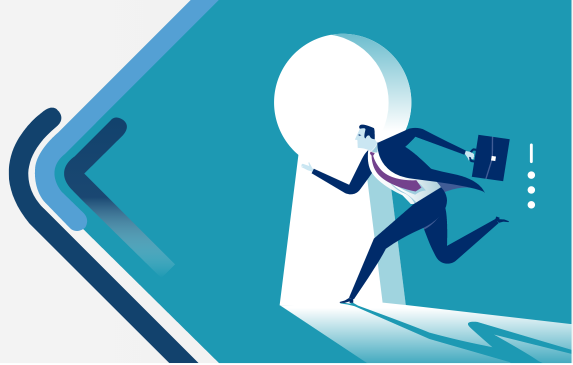
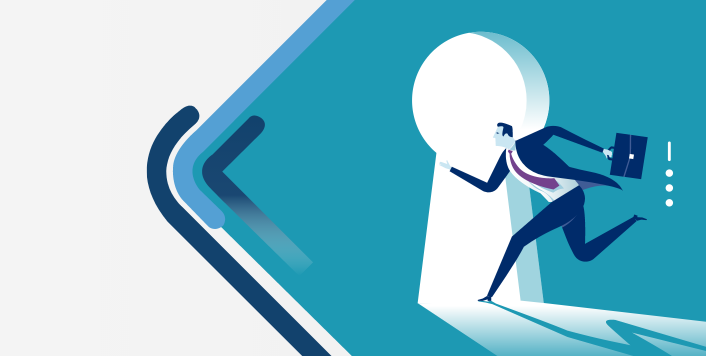
update

diff --git a/src/components/Home.jsx b/src/components/Home.jsx
@@ -5,18 +5,22 @@ import HomeImage from '../assets/images/homeimage.png';
 const Home = () => {
   return (
     <section className="home-section">
-      <div className="home-left">
-        <h1>Lorem ipsum</h1>
-        <p>
-         Lorem ipsum dolor sit amet consectetur, adipisicing elit. Odio voluptas quo quia impedit sequi, ea perferendis repellendus non maiores maxime. Facere fugit nesciunt dicta sapiente excepturi animi ipsa expedita esse illo tempora? Mollitia, earum dolore hic quaerat incidunt error aut saepe enim tempora ad optio iste libero. Laudantium, doloremque quia? Exercitationem, minima. At delectus quod nisi sit tempore ipsum temporibus dolore ut vero optio, porro excepturi doloremque nemo natus. Ad corrupti voluptatum assumenda inventore. Laborum dolore consectetur adipisci labore id voluptatum dolor nesciunt reiciendis neque architecto molestiae, cum quisquam consequuntur cumque facilis? Rerum similique nulla voluptatum eligendi, beatae reiciendis! Adipisci?
-        </p>
-        <button className="know-more-btn">Know More</button>
-      </div>
-
-      <div className="home-right">
-        <img src={HomeImage} alt="Illustration" />
-      </div>
-    </section>
+    <div className="home-left">
+      <h1>Lorem ipsum</h1>
+      <p>
+        Lorem ipsum dolor sit amet, consetetur sadipscing elitr, sed diam
+        nonumy eirmod tempor invidunt ut labore et dolore magna aliquyam erat,
+        sed diam voluptua. At vero eos et accusam et justo duo dolores et ea
+        rebum. Stet clita kasd.
+      </p>
+      <button className="know-more-btn">Know More ►</button>
+    </div>
+  
+    <div className="home-right">
+      <img src={HomeImage} alt="Illustration" />
+    </div>
+  </section>
+  
   );
 };
 

diff --git a/src/assets/css/Home.css b/src/assets/css/Home.css
@@ -1,50 +1,54 @@
 .home-section {
-    display: flex;
-    flex-wrap: wrap;
-    padding: 60px 0;
-    background-color: #f9f9f9;
-  }
-  
-  .home-left, .home-right {
-    flex: 1;
-    min-width: 300px;
-    padding: 20px 5%;
-  }
-  
-  /* Left side content */
-  .home-left {
-    display: flex;
-    flex-direction: column;
-    justify-content: center;
-  }
-  
-  .home-left h1 {
-    font-size: 2.5rem;
-    margin-bottom: 20px;
-    color: #003366;
-  }
-  
-  .home-left p {
-    font-size: 1rem;
-    line-height: 1.6;
-    margin-bottom: 20px;
-    color: #444;
-  }
-  
-  .know-more-btn {
-    padding: 10px 20px;
-    background-color: #003366;
-    color: white;
-    border: none;
-    border-radius: 8px;
-    cursor: pointer;
-    width: 150px;
-  }
-  
-  /* Right side image */
-  .home-right img {
-    width: 100%;
-    height: auto;
-    object-fit: cover;
-  }
-  
+  display: flex;
+  flex-wrap: wrap;
+  height: 100%; 
+  background:'#f4f4f4'; 
+}
+
+.home-left, .home-right {
+  flex: 1;
+  min-width: 300px;
+}
+
+.home-left {
+  display: flex;
+  flex-direction: column;
+  justify-content: center;
+  padding: 0 5%;
+  background-color: #f4f4f4;
+}
+
+.home-left h1 {
+  font-size: 2.5rem;
+  margin-bottom: 20px;
+  color: #003366;
+}
+
+.home-left p {
+  font-size: 1rem;
+  line-height: 1.6;
+  margin-bottom: 20px;
+  color: #555;
+}
+
+.know-more-btn {
+  padding: 12px 24px;
+  background-color: #003366;
+  color: white;
+  border: none;
+  border-radius: 8px;
+  cursor: pointer;
+  width: fit-content;
+  font-weight: bold;
+}
+
+.home-right {
+  display: flex;
+  align-items: stretch;
+}
+
+.home-right img {
+  width: 100%;
+  height: 100%;
+  object-fit: cover;
+}

diff --git a/src/assets/css/Subscribe.css b/src/assets/css/Subscribe.css
@@ -2,7 +2,7 @@
     display: flex;
     justify-content: space-between;
     align-items: center;
-    padding: 3rem 2rem;
+    padding: 40px 5%;
     gap: 2rem;
     flex-wrap: wrap;
   }
@@ -76,7 +76,7 @@
     height: auto;
   }
   
-  /* Responsive */
+  
   @media (max-width: 768px) {
     .subscribe-container {
       flex-direction: column-reverse;
@@ -92,4 +92,35 @@
       justify-content: center;
     }
   }
+  
+  @media (max-width: 380px) {
+    .subscribe-container {
+      padding: 2rem 1rem;
+    }
+  
+    .subscribe-content h2 {
+      font-size: 22px;
+    }
+  
+    .subscribe-content p {
+      font-size: 14px;
+    }
+  
+    .subscribe-form {
+      flex-direction: column;
+      align-items: stretch;
+    }
+  
+    .subscribe-input {
+      min-width: 100%;
+      font-size: 13px;
+    }
+  
+    .subscribe-btn {
+      width: 100%;
+      font-size: 13px;
+      padding: 10px 16px;
+    }
+  }
+  
   

diff --git a/src/App.js b/src/App.js
@@ -1,22 +1,9 @@
-import About from "./components/About";
-import Faq from "./components/FAQ";
-import Footer from "./components/Footer";
-import Home from "./components/Home";
-import Navbar from "./components/Navbar";
-import StatsSection from "./components/Stats";
-import Subscribe from "./components/SubScribe";
-
+import Main from "./components/Main";
 
 function App() {
   return (
-    <div >
-     <Navbar/>
-     <Home/>
-     <About/>
-     <StatsSection/>
-     <Faq/>
-     <Subscribe/>
-     <Footer/>
+    <div>
+      <Main/>
     </div>
   );
 }

diff --git a/src/components/Main.jsx b/src/components/Main.jsx
@@ -1,0 +1,24 @@
+import React from 'react';
+import Navbar from './Navbar';
+import Home from './Home';
+import About from './About';
+import Stats from './Stats';
+import Faq from './FAQ'
+import Subscribe from './SubScribe';
+import Footer from './Footer';
+const Main = () => {
+  
+  return (
+    <div >
+      <Navbar />
+      <Home />
+      <About />
+      <Stats />
+      <Faq />
+      <Subscribe />
+      <Footer />
+    </div>
+  );
+};
+
+export default Main;

diff --git a/src/components/Stats.jsx b/src/components/Stats.jsx
@@ -1,6 +1,6 @@
 import React from "react";
 import '../assets/css/Stats.css';
-const StatsSection = () => {
+const Stats = () => {
     const stats = [
         {
           heading: 'Lorem ipsum',
@@ -43,4 +43,4 @@ const StatsSection = () => {
     );
   };
   
-  export default StatsSection;
+  export default Stats;

diff --git a/src/assets/css/Footer.css b/src/assets/css/Footer.css
@@ -1,7 +1,7 @@
 .footer {
     background-color: #00244d;
     color: #fff;
-    padding: 3rem 2rem 1rem;
+    padding: 40px 5%;
     font-family: 'Segoe UI', sans-serif;
   }
   

diff --git a/src/assets/css/Navbar.css b/src/assets/css/Navbar.css
@@ -58,7 +58,7 @@
   }
   
   /* Responsive */
-  @media screen and (max-width: 768px) {
+  @media screen and (max-width: 1050px) {
     
     .nav-links {
       display: none;

diff --git a/src/assets/css/Faq.css b/src/assets/css/Faq.css
@@ -1,7 +1,7 @@
 .faq-section {
     max-width: 100%;
     margin: 0 auto;
-    padding: 2rem 1rem;
+    padding: 40px 5%;
   }
   
   .faq-title {

diff --git a/src/assets/css/Stats.css b/src/assets/css/Stats.css
@@ -1,5 +1,5 @@
 .stats-section {
-  background-color: #f8f8f8;
+  background-color: #f4f4f4;
   padding: 40px 5%;
 }
 
